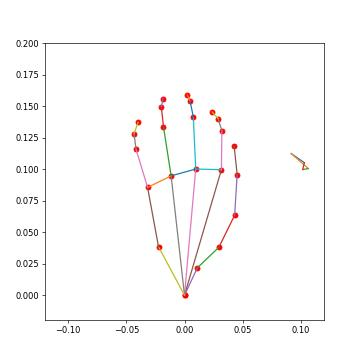
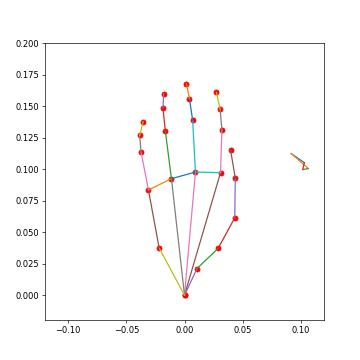
whole teleop and replay pipeline works with delta actions now

Changed region(s): [[0.3667, 0.2139, 0.6722, 0.7028], [0.5194, 0.7028, 0.5806, 0.7639], [0.4278, 0.6111, 0.4583, 0.7028]]

diff --git a/visualize_demo.py b/visualize_demo.py
@@ -162,6 +162,7 @@ def make_combined_video(folder, demo_number):
     max_depth_value = np.percentile(np.concatenate([x.flatten() for x in depth_frames]), 98)  # get rid of outliers
 
     output_data = {
+        "cartesian_pose_cmd": [],
         "arm_action": [],
         "gripper_action": [],
         "gripper_state": [],
@@ -172,7 +173,6 @@ def make_combined_video(folder, demo_number):
         "rgb_frames": [],
         "depth_frames": [],
         "timestamp": [],
-
         # "controller_type"
         # "controller_cfg"
         # "index"
@@ -180,8 +180,14 @@ def make_combined_video(folder, demo_number):
     all_cams_started_time = np.max([x[0] for x in rgb_timestamps] + [x[0] for x in depth_timestamps])
     cam_stopped = np.min([x[-1] for x in rgb_timestamps] + [x[-1] for x in depth_timestamps])
     for i in tqdm(range(len(cmd_data['index'])), desc="Processing data..."):
+        # once the robot is stopped (by releasing deadman switch), the robot state stops updating but the commands continue
+        # detect this and skip these frames
+        if i != 0 and (cmd_data['joint_pos'][i] == cmd_data['joint_pos'][i - 1]).all():
+            continue
+
         if cmd_data['timestamp'][i] < all_cams_started_time or cmd_data['timestamp'][i] > cam_stopped:  # throws away the last frame but thats fine
             continue
+        output_data["cartesian_pose_cmd"].append(cmd_data['cartesian_pose_cmd'][i])
         output_data["arm_action"].append(cmd_data['arm_action'][i])
         output_data["gripper_action"].append(cmd_data['gripper_action'][i])
         output_data["gripper_state"].append(cmd_data['gripper_state'][i])
@@ -209,6 +215,8 @@ def make_combined_video(folder, demo_number):
 
     for k, v in output_data.items():
         output_data[k] = np.array(v)
+    output_data["controller_type"] = cmd_data["controller_type"]
+    output_data["controller_cfg"] = cmd_data["controller_cfg"]
     path = f"{demo_path}/demo_{demo_number}.pkl"
     print(f"Saving processed data to {path}...")
     with open(path, "wb") as f:
@@ -542,64 +550,64 @@ def make_combined_video(folder, demo_number):
 #     return start_idcs, end_idcs
 
 
-def get_err(a, b):
-    return np.abs(a - b).max()
+# def get_err(a, b):
+#     return np.abs(a - b).max()
 
 
-def plot_timestamps(series, labels, demo_path):
-    spacing = 0.2  # Vertical spacing between series
+# def plot_timestamps(series, labels, demo_path):
+#     spacing = 0.2  # Vertical spacing between series
 
-    # Flatten all timestamps to find the overall x-axis range
-    all_timestamps = np.concatenate(series)
-    x_min = np.min(all_timestamps)
-    x_max = np.max(all_timestamps)
-    x_range = x_max - x_min
+#     # Flatten all timestamps to find the overall x-axis range
+#     all_timestamps = np.concatenate(series)
+#     x_min = np.min(all_timestamps)
+#     x_max = np.max(all_timestamps)
+#     x_range = x_max - x_min
 
-    # Define the maximum x-axis length per plot
-    max_x_length = 30
+#     # Define the maximum x-axis length per plot
+#     max_x_length = 30
 
-    # Calculate the number of plots needed
-    num_plots = int((x_range) / max_x_length) + 1
+#     # Calculate the number of plots needed
+#     num_plots = int((x_range) / max_x_length) + 1
 
-    # Ensure the demo_path exists
-    os.makedirs(demo_path, exist_ok=True)
+#     # Ensure the demo_path exists
+#     os.makedirs(demo_path, exist_ok=True)
 
-    for plot_idx in range(num_plots):
-        # Define the x-axis limits for this plot
-        start_x = x_min + plot_idx * max_x_length
-        end_x = start_x + max_x_length
+#     for plot_idx in range(num_plots):
+#         # Define the x-axis limits for this plot
+#         start_x = x_min + plot_idx * max_x_length
+#         end_x = start_x + max_x_length
 
-        # Create a new figure
-        plt.figure(figsize=(250/732 * max_x_length * 15, 5))  # Adjust figsize as needed
+#         # Create a new figure
+#         plt.figure(figsize=(250/732 * max_x_length * 15, 5))  # Adjust figsize as needed
 
-        # Plot each series
-        for i, timestamps in enumerate(series):
-            timestamps = np.array(timestamps)
-            # Get indices of timestamps within the current x-axis range
-            indices_in_range = np.where((timestamps >= start_x) & (timestamps <= end_x))[0]
-            timestamps_in_range = timestamps[indices_in_range]
-            y_value = i * spacing
-            if len(timestamps_in_range) > 0:
-                plt.scatter(timestamps_in_range, [y_value]*len(timestamps_in_range), label=labels[i], s=30)
-                # Optionally, draw lines representing events
-                plt.vlines(timestamps_in_range, y_value - 0.1, y_value + 0.1, colors='k', linewidth=1)
+#         # Plot each series
+#         for i, timestamps in enumerate(series):
+#             timestamps = np.array(timestamps)
+#             # Get indices of timestamps within the current x-axis range
+#             indices_in_range = np.where((timestamps >= start_x) & (timestamps <= end_x))[0]
+#             timestamps_in_range = timestamps[indices_in_range]
+#             y_value = i * spacing
+#             if len(timestamps_in_range) > 0:
+#                 plt.scatter(timestamps_in_range, [y_value]*len(timestamps_in_range), label=labels[i], s=30)
+#                 # Optionally, draw lines representing events
+#                 plt.vlines(timestamps_in_range, y_value - 0.1, y_value + 0.1, colors='k', linewidth=1)
 
-                # Label each point with its index in the series
-                for idx, x in zip(indices_in_range, timestamps_in_range):
-                    plt.annotate(str(idx), (x, y_value), textcoords="offset points", xytext=(0,10), ha='center')
+#                 # Label each point with its index in the series
+#                 for idx, x in zip(indices_in_range, timestamps_in_range):
+#                     plt.annotate(str(idx), (x, y_value), textcoords="offset points", xytext=(0,10), ha='center')
 
-        plt.xlabel('Time')
-        plt.ylabel('Series')
-        plt.yticks([i*spacing for i in range(len(series))], labels)
-        plt.title(f'Timestamp Series Plot (Part {plot_idx + 1})')
-        # plt.legend()
-        plt.xlim(start_x, end_x)
-        plt.tight_layout()
-        # Save plot
-        print(f"Saving timestamps plot part {plot_idx + 1}/{num_plots}...")
-        plot_filename = os.path.join(demo_path, f"timestamps_part_{plot_idx + 1}.png")
-        plt.savefig(plot_filename)
-        plt.close()
+#         plt.xlabel('Time')
+#         plt.ylabel('Series')
+#         plt.yticks([i*spacing for i in range(len(series))], labels)
+#         plt.title(f'Timestamp Series Plot (Part {plot_idx + 1})')
+#         # plt.legend()
+#         plt.xlim(start_x, end_x)
+#         plt.tight_layout()
+#         # Save plot
+#         print(f"Saving timestamps plot part {plot_idx + 1}/{num_plots}...")
+#         plot_filename = os.path.join(demo_path, f"timestamps_part_{plot_idx + 1}.png")
+#         plt.savefig(plot_filename)
+#         plt.close()
 
 
 def make_combined_frame(depth_frames, rgb_frames, cartesian_frames, joint_state_plot, i, max_depth_value, frames_dir):

diff --git a/playback_demo.py b/playback_demo.py
@@ -32,10 +32,7 @@ import importlib
 from scipy.spatial.transform import Rotation as R
 import os
 import time
-
-# add openteachcontrollers to path
-sys.path.append("/home/ripl/openteachcontrollers/src/franka-arm-controllers/franka_arm")
-from controller import FrankaController
+from openteach.utils.timer import FrequencyTimer
 
 parser = argparse.ArgumentParser()
 parser.add_argument("demo", type=str, help="The name of the demonstration to visualize")
@@ -109,44 +106,39 @@ def dataloader(args):
             franka_controller.set_gripper_position(deltas[-1])
             time.sleep(1.0/15)
 
+
 def rlds_state2pos_quat(state):
     rpy = state[3:6]
     return state[:3], mat2quat(euler2mat(rpy))
 
-def main(args):
-    downsample_factor = 1
-    franka_controller = FrankaController(record=False, control_freq=15 // downsample_factor)
 
+def main(args):
     home = os.path.expanduser("~")
     # Load demonstration data
-    filename = f"{home}/openteach/extracted_data/pick_coke/demonstration_{args.demo}/demo_{args.demo}.pkl"
+    filename = f"{home}/openteach/extracted_data/demonstration_{args.demo}/demo_{args.demo}.pkl"
     # arm_cmd_file = f"/home/ripl/openteach/extracted_data/pick_coke/demonstration_coke18/franka_arm_tcp_commands.h5"
     with open(filename, 'rb') as dbfile:
         db = pkl.load(dbfile)
-
-    # binarize gripper actions (-1, 1)
-    gripper_actions = np.where(db['gripper_cmd'] <= 0, 1, -1)
-    assert len(gripper_actions) == len(db['eef_pose'])
+    robot_interface = FrankaInterface(
+        os.path.join('/home/ripl/openteach/configs', 'deoxys.yml'), use_visualizer=False,
+        control_freq=60,
+        state_freq=200
+    )
+    timer = FrequencyTimer(15)
 
     # move robot to start position
-    reset_joints_to(franka_controller.robot_interface, db['joint_angles'][0])
+    reset_joints_to(robot_interface, db['joint_pos'][0])
+    for i in range(0, len(db["arm_action"])):
+        timer.start_loop()
+        robot_interface.control(
+                controller_type=db["controller_type"],
+                action=db["arm_action"][i],
+                controller_cfg=db["controller_cfg"],
+            )
 
-    for i in range(0, len(gripper_actions) - downsample_factor, downsample_factor):
-        delta_pos = db['eef_pos'][i + downsample_factor] - db['eef_pos'][i]
-        if i == 0:
-            curr_pos, curr_quat = franka_controller.get_cartesian_position()
-            curr_pos = curr_pos.reshape((3,)) + delta_pos
-        else:
-            curr_pos += delta_pos
+        robot_interface.gripper_control(db["gripper_action"][i])
+        timer.end_loop()
 
-        # curr_pos = db['eef_pos'][i]
-        cartesian_pose = np.concatenate((
-            curr_pos,
-            db['eef_quat'][i]
-        ))
-
-        franka_controller.cartesian_control(cartesian_pose)
-        franka_controller.set_gripper_position(gripper_actions[i])
 
 if __name__ == "__main__":
     args = parser.parse_args()
